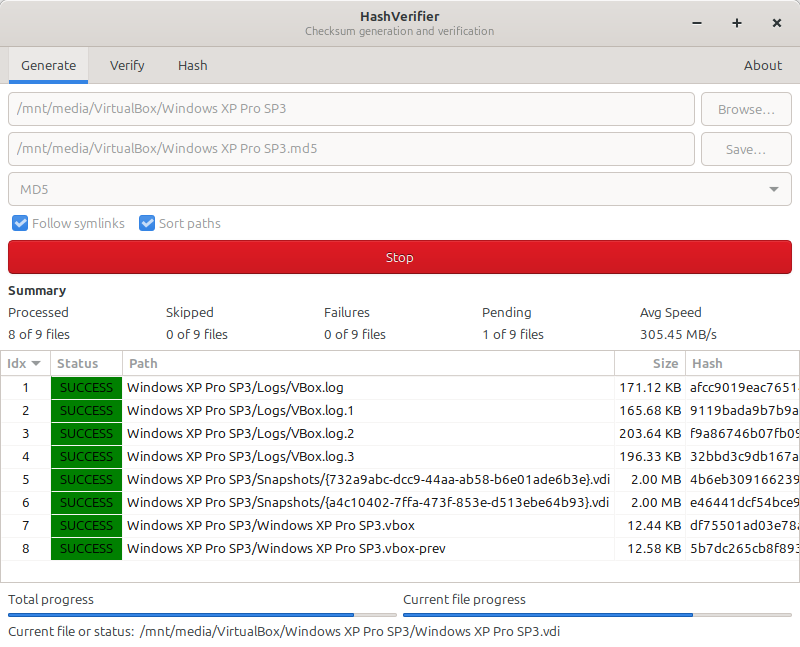
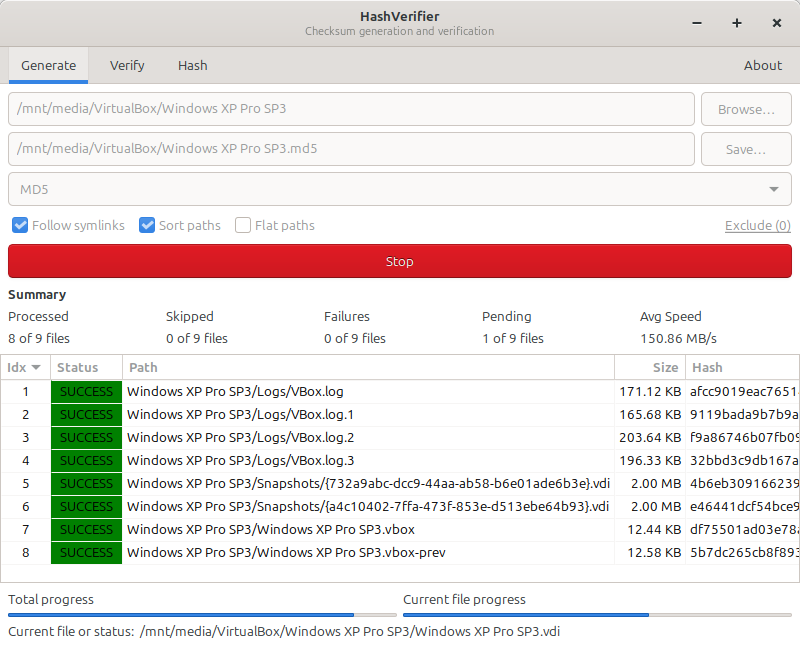
Fixing drag-and-drop issue with nested entries

diff --git a/src/internal/gui/app/drag_dest_unset.go b/src/internal/gui/app/drag_dest_unset.go
@@ -1,0 +1,119 @@
+package app
+
+// #cgo pkg-config: gtk+-3.0
+// #include <gtk/gtk.h>
+//
+// #ifndef HV_DND_HELPERS
+// #define HV_DND_HELPERS
+// static gboolean hv_is_entry(GtkWidget *w) { return GTK_IS_ENTRY(w) || GTK_IS_TEXT_VIEW(w); }
+// static gboolean hv_is_container(GtkWidget *w) { return GTK_IS_CONTAINER(w); }
+// #endif
+import "C"
+
+import (
+	"unsafe"
+
+	"github.com/gotk3/gotk3/glib"
+	"github.com/gotk3/gotk3/gtk"
+)
+
+// dragDestUnset clears a widget's drop destination so drag-and-drop events
+// propagate up to a parent widget that has its own handler. It mirrors
+// gotk3's own DragDestSet wrapper.
+func dragDestUnset(w gtk.IWidget) {
+	if w == nil {
+		return
+	}
+	widget := w.ToWidget()
+	if widget == nil || widget.GObject == nil {
+		return
+	}
+	C.gtk_drag_dest_unset((*C.GtkWidget)(unsafe.Pointer(widget.GObject)))
+}
+
+// isInputWidgetC reports whether the C-level GtkWidget is a text input
+// widget (GtkEntry and its subclasses like GtkSearchEntry, GtkSpinButton,
+// or GtkTextView) that has built-in drag-and-drop handling.
+//
+// Using GTK_IS_* macros directly (rather than g_type_from_name in a
+// package var) avoids any ordering dependency on GObject type-system
+// initialization: the macros call gtk_*_get_type() which registers the
+// type on first use, matching gotk3's own pattern in gtk.init().
+func isInputWidgetC(w *C.GtkWidget) bool {
+	return C.hv_is_entry(w) != 0
+}
+
+// isContainerC reports whether the C-level GtkWidget is a GtkContainer
+// (i.e. can have children to recurse into during the tree walk).
+func isContainerC(w *C.GtkWidget) bool {
+	return C.hv_is_container(w) != 0
+}
+
+// collectInputWidgets walks the widget tree starting at root and returns
+// every input widget (GtkEntry, GtkSearchEntry, GtkTextView, ...) found.
+// The caller is responsible for acting on the returned list.
+func collectInputWidgets(root gtk.IWidget) []gtk.IWidget {
+	var result []gtk.IWidget
+	collectInputWidgetsInto(root, &result)
+	return result
+}
+
+// collectInputWidgetsInto recursively walks the widget tree, appending every
+// input widget found to result. Containers are traversed to reach nested
+// inputs (e.g. an entry inside a notebook page).
+func collectInputWidgetsInto(w gtk.IWidget, result *[]gtk.IWidget) {
+	if w == nil {
+		return
+	}
+	widget := w.ToWidget()
+	if widget == nil || widget.GObject == nil {
+		return
+	}
+
+	cWidget := (*C.GtkWidget)(unsafe.Pointer(widget.GObject))
+	if isInputWidgetC(cWidget) {
+		*result = append(*result, w)
+	}
+
+	if !isContainerC(cWidget) {
+		return
+	}
+
+	children := C.gtk_container_get_children((*C.GtkContainer)(unsafe.Pointer(cWidget)))
+	if children == nil {
+		return
+	}
+	defer C.g_list_free(children)
+
+	for c := children; c != nil; c = c.next {
+		if c.data == nil {
+			continue
+		}
+		childWidget := (*C.GtkWidget)(unsafe.Pointer(c.data))
+		switch {
+		case isInputWidgetC(childWidget):
+			if iw := widgetFromC(childWidget); iw != nil {
+				*result = append(*result, iw)
+			}
+		case isContainerC(childWidget):
+			if iw := widgetFromC(childWidget); iw != nil {
+				collectInputWidgetsInto(iw, result)
+			}
+		}
+	}
+}
+
+// widgetFromC wraps a raw GtkWidget pointer as gtk.IWidget using gotk3's
+// public Cast mechanism. The returned widget owns a reference (via glib.Take).
+func widgetFromC(w *C.GtkWidget) gtk.IWidget {
+	if w == nil {
+		return nil
+	}
+	obj := glib.Take(unsafe.Pointer(w))
+	widget := &gtk.Widget{InitiallyUnowned: glib.InitiallyUnowned{Object: obj}}
+	iw, err := widget.Cast()
+	if err != nil {
+		return nil
+	}
+	return iw
+}

diff --git a/src/internal/gui/widgets/stream_batch.go b/src/internal/gui/widgets/stream_batch.go
@@ -11,8 +11,9 @@ import "time"
 // item in the current slice, or when the channel is closed.
 //
 // If GetError returns a non-nil error for an item, the current batch
-// is flushed, OnProgress is invoked for the error item (so the GUI can
-// show final stats), and RunStream stops consuming further items.
+// is flushed, OnProgress is invoked for the error item if IsProgress is
+// nil or returns true for it (so the GUI can show final stats), and
+// RunStream stops consuming further items.
 //
 // OnFinish, if set, is invoked exactly once when RunStream terminates:
 // with nil on graceful close, or with the triggering error otherwise.
@@ -47,20 +48,8 @@ func RunStream[T any](ch <-chan T, cfg StreamBatchConfig[T]) {
 			return
 		}
 
-		if timer == nil {
-			timer = time.NewTimer(cfg.FlushInterval)
-			timerCh = timer.C
-		} else {
-			if !timer.Stop() {
-				select {
-				case <-timer.C:
-				default:
-				}
-			}
-
-			timer.Reset(cfg.FlushInterval)
-		}
-
+		timer = time.NewTimer(cfg.FlushInterval)
+		timerCh = timer.C
 		pendingFlush = true
 	}
 
@@ -76,6 +65,7 @@ func RunStream[T any](ch <-chan T, cfg StreamBatchConfig[T]) {
 			}
 		}
 
+		timer = nil
 		timerCh = nil
 		pendingFlush = false
 	}
@@ -91,7 +81,10 @@ func RunStream[T any](ch <-chan T, cfg StreamBatchConfig[T]) {
 		batch = nil
 
 		stopTimer()
-		cfg.OnBatch(items)
+
+		if cfg.OnBatch != nil {
+			cfg.OnBatch(items)
+		}
 	}
 
 	defer func() {
@@ -149,10 +142,10 @@ func RunStream[T any](ch <-chan T, cfg StreamBatchConfig[T]) {
 			timer = nil
 			pendingFlush = false
 
-			if len(batch) > 0 {
-				items := batch
-				batch = nil
+			items := batch
+			batch = nil
 
+			if cfg.OnBatch != nil {
 				cfg.OnBatch(items)
 			}
 		}

diff --git a/src/internal/action/hasher/hasher_service.go b/src/internal/action/hasher/hasher_service.go
@@ -6,7 +6,6 @@ import (
 	"os"
 
 	"github.com/ostapkonst/HashVerifier/internal/checksum"
-	"github.com/ostapkonst/HashVerifier/internal/checksum/algo"
 )
 
 type HashConfig struct {
@@ -16,7 +15,7 @@ type HashConfig struct {
 
 type HashResult struct {
 	Hash      string
-	Algorithm algo.Algorithm
+	Algorithm checksum.Algorithm
 }
 
 func ValidateFilePath(path string) error {
@@ -32,15 +31,15 @@ func ValidateFilePath(path string) error {
 	return nil
 }
 
-func ParseAlgorithms(algorithms []string) ([]algo.Algorithm, error) {
+func ParseAlgorithms(algorithms []string) ([]checksum.Algorithm, error) {
 	if len(algorithms) == 0 {
 		return nil, fmt.Errorf("no algorithms specified")
 	}
 
-	result := make([]algo.Algorithm, 0, len(algorithms))
+	result := make([]checksum.Algorithm, 0, len(algorithms))
 
 	for _, algoStr := range algorithms {
-		algoType, err := algo.AlgorithmFromExtension(algoStr)
+		algoType, err := checksum.AlgorithmFromExtension(algoStr)
 		if err != nil {
 			return nil, fmt.Errorf("unsupported algorithm %s: %w", algoStr, err)
 		}

diff --git a/src/internal/checksum/stats/types.go b/src/internal/checksum/stats/types.go
@@ -121,7 +121,7 @@ type GeneratorStats struct {
 	TotalFiles          int     // всего файлов в чек-сумме
 	Processed           int     // обработано успешно
 	WithErrors          int     // не удалось обработать
-	Skipped             int     // пропущено (некорректное имя файла для checksum-формата)
+	Skipped             int     // пропущено (исключено пользователем или некорректное имя файла для checksum-формата)
 	CurrentFileOrStatus string  // текущий файл или статус
 	FileHashingProgress float64 // прогресс вычисления хеша текущего файла
 	Speed               float64 // скорость хеширования в байтах/сек

diff --git a/src/internal/action/hasher/hasher_streaming.go b/src/internal/action/hasher/hasher_streaming.go
@@ -6,7 +6,6 @@ import (
 	"time"
 
 	"github.com/ostapkonst/HashVerifier/internal/checksum"
-	"github.com/ostapkonst/HashVerifier/internal/checksum/algo"
 )
 
 const hashProgressInterval = 50 * time.Millisecond
@@ -14,7 +13,7 @@ const hashProgressInterval = 50 * time.Millisecond
 type HashStreamingResult struct {
 	Result           HashResult
 	Progress         float64
-	Algorithm        algo.Algorithm
+	Algorithm        checksum.Algorithm
 	Err              error
 	IsProgressUpdate bool
 }

diff --git a/src/internal/checksum/exclude/exclude.go b/src/internal/checksum/exclude/exclude.go
@@ -35,8 +35,7 @@ func IsExcludedError(err error) bool {
 // normalized to forward slashes so that matchers behave the same regardless
 // of the host OS path separator.
 //
-// A nil *Matcher is safe to call — IsExcluded returns false and Count
-// returns 0.
+// A nil *Matcher is safe to call — IsExcluded returns false.
 type Matcher struct {
 	// files holds exact rel-paths of excluded files (normalized, no
 	// trailing slash). Lookup is O(1).

diff --git a/src/internal/gui/widgets/exclude_dialog.go b/src/internal/gui/widgets/exclude_dialog.go
@@ -544,7 +544,7 @@ func boolFromValue(val *glib.Value) (bool, error) {
 
 // normalizeExcludePath converts a rel-path to canonical form: backslashes
 // are replaced with forward slashes and the path is cleaned via filepath.Clean.
-// Used as a key in nodeIters and existingSet for cross-platform matching.
+// Used as a key in nodeIters for cross-platform matching.
 func normalizeExcludePath(p string) string {
 	if p == "" {
 		return ""

diff --git a/src/internal/action/action.go b/src/internal/action/action.go
@@ -25,7 +25,7 @@ type (
 type (
 	HashConfig          = hasher.HashConfig
 	HashResult          = hasher.HashResult
-	HashStreamingConfig = hasher.HashConfig
+	HashStreamingConfig = hasher.HashConfig // тот же тип, что и HashConfig: streaming-вариант не добавляет новых полей
 	HashStreamingResult = hasher.HashStreamingResult
 )
 

diff --git a/src/internal/action/generator/generator_streaming.go b/src/internal/action/generator/generator_streaming.go
@@ -124,11 +124,12 @@ func GenerateChecksumsStreamingToFile(ctx context.Context, cfg GenerateStreaming
 			}
 		}
 
+		cancel()
+
 		if err := generator.Wait(); err != nil && hasError == nil {
 			hasError = fmt.Errorf("failed to generate checksums: %w", err)
 		}
 
-		cancel()
 		<-done
 
 		isCanceled := errors.Is(hasError, context.Canceled)

diff --git a/src/internal/action/verifier/verifier_streaming.go b/src/internal/action/verifier/verifier_streaming.go
@@ -76,11 +76,12 @@ func VerifyChecksumsStreaming(ctx context.Context, cfg VerifyStreamingConfig) (<
 			}
 		}
 
+		cancel()
+
 		if err := verifier.Wait(); err != nil {
 			hasError = fmt.Errorf("verification failed: %w", err)
 		}
 
-		cancel()
 		<-done
 
 		resultCh <- VerifyStreamingResult{

diff --git a/src/internal/gui/app/gui.go b/src/internal/gui/app/gui.go
@@ -174,6 +174,7 @@ func (a *App) initUI() error {
 	a.tabManager.ConnectSwitchHandler()
 	a.windowGeom.ConnectEvents()
 	a.dragAndDrop.Setup()
+	a.dragAndDrop.DisableDropOnInputWidgets(a.window)
 
 	return nil
 }

diff --git a/src/internal/gui/app/drag_and_drop.go b/src/internal/gui/app/drag_and_drop.go
@@ -58,3 +58,9 @@ func (d *DragAndDrop) Setup() {
 		}
 	})
 }
+
+func (d *DragAndDrop) DisableDropOnInputWidgets(root gtk.IWidget) {
+	for _, w := range collectInputWidgets(root) {
+		dragDestUnset(w)
+	}
+}
